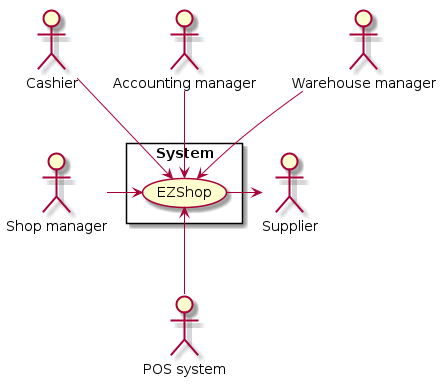
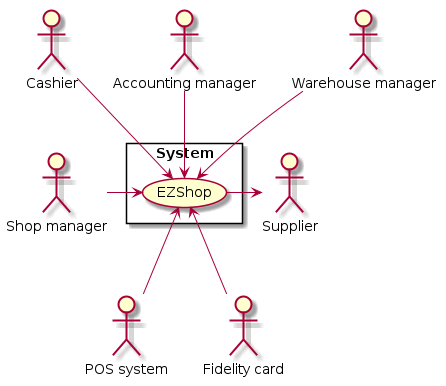
doc: added stakeholder and actor Fidelity card

diff --git a/Deliverables/RequirementsDocument.md b/Deliverables/RequirementsDocument.md
@@ -52,6 +52,7 @@ EZShop is a software application to:
 |	Supplier		| Person who sell the products to the shop manager			|
 |	POS system		| System that manages credit cards payments from customers|
 |	End user		| Person that will use the EZShop application |
+|	Fidelity card	| Card given to a customer in order to receive some discounts |
 <br>
 
 # Context Diagram and interfaces
@@ -79,6 +80,7 @@ EZShop is a software application to:
 		s <- EZShop
 		' EZShop <-- cms
 		EZShop <-- ccs
+		EZShop <-- :Fidelity card:
 	@enduml
 </div>
 <br>
@@ -94,7 +96,8 @@ EZShop is a software application to:
 |	Accounting manager| GUI		| Screen, keyboard, mouse	|
 |	Warehouse manager| GUI		| Screen, keyboard, mouse	|
 |	Supplier		| Purchase order file	| Email on the network containing as attachment the order	|
-|	POS management system| ECR interface described at <a href="https://www.ccv.eu/wp-content/uploads/2018/05/zvt_ecr_interface_specification.pdf" >ECR</a>| Wired connection|
+|	POS system| ECR interface described at <a href="https://www.ccv.eu/wp-content/uploads/2018/05/zvt_ecr_interface_specification.pdf" >ECR</a>| Wired connection|
+|	Fidelity card	| Barcode	| Laser beam scanner|
 <!--|	Customer management system	| Web service |	Internet connection|-->
 
 <!--|	Inventory and catalogue system	| Queries		| Database connection over the network	|)-->
